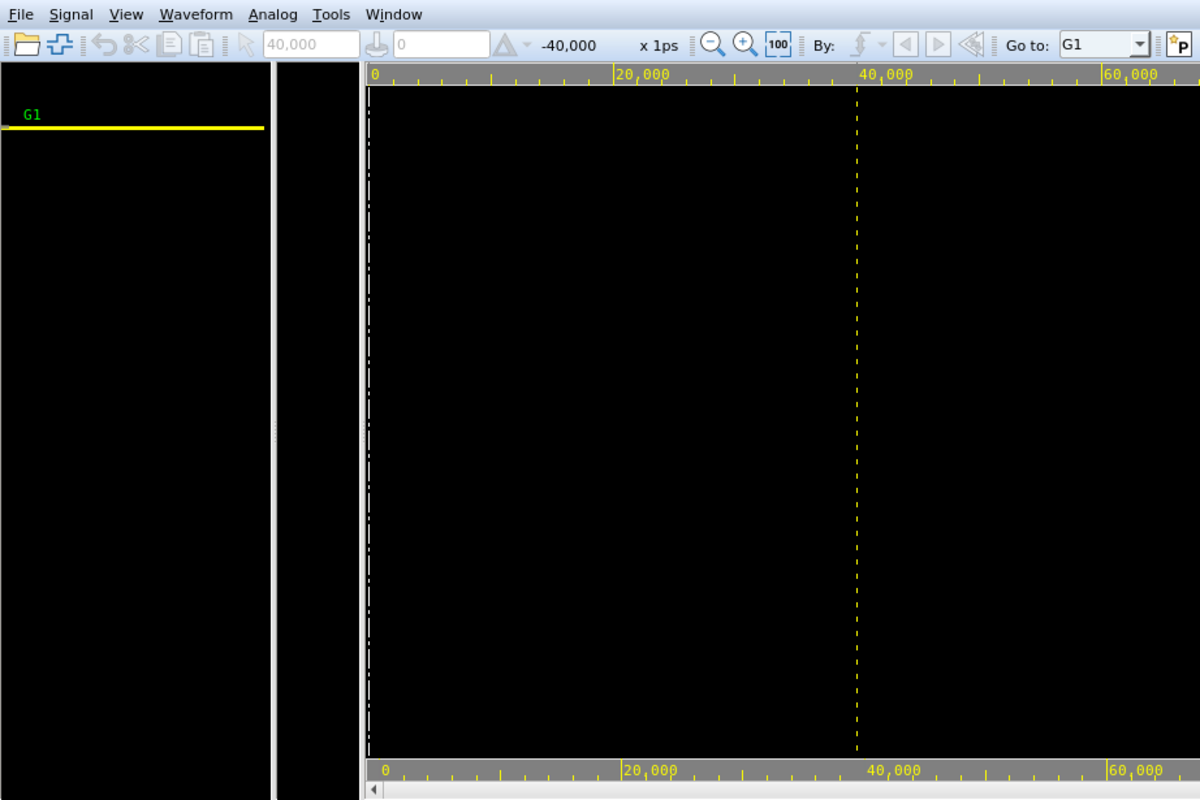
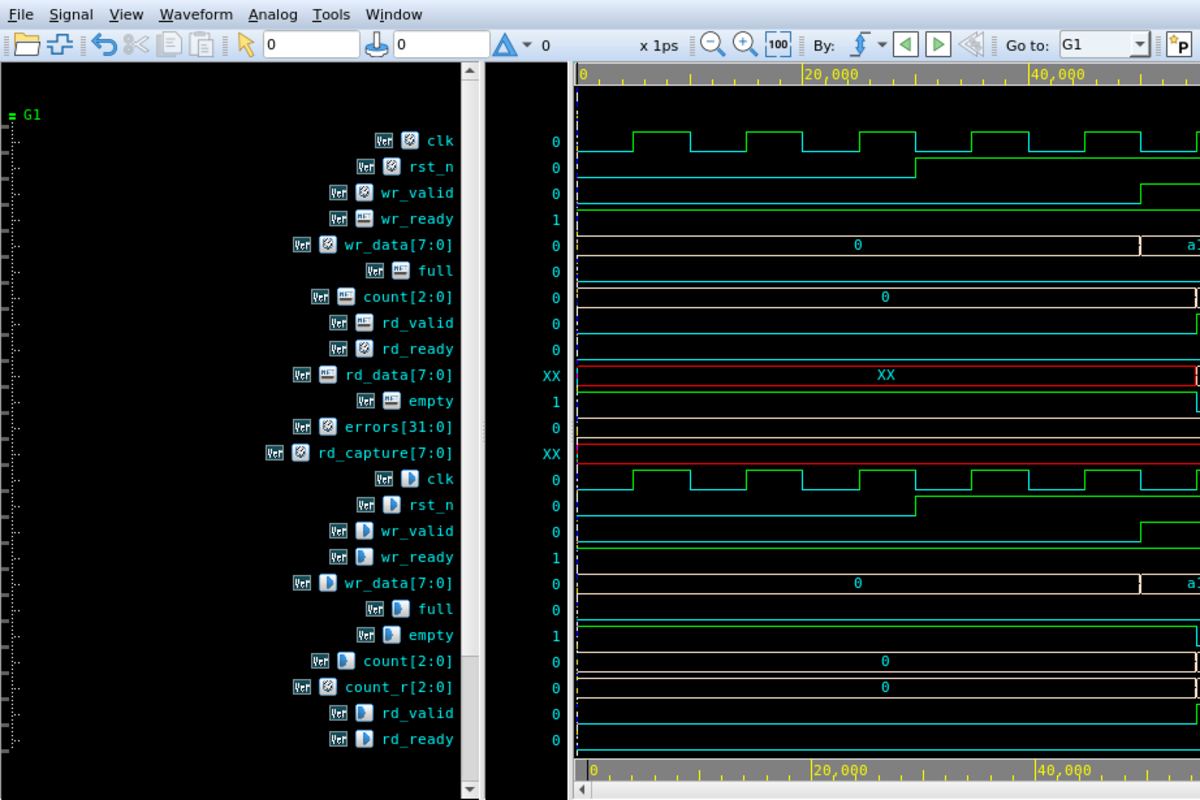
docs(readme): fix the demo captures
The previous tiles were captured from a window whose signals never got
added: wvAddSignal rejects a single braced list, and it returned 0, which
looked like success. Each tile was an empty waveform area.

Redone from a live session with the signals added one argument at a time:
29 signals in the list, scrolled to the top and deselected, a marker and a
highlight on top for the annotated shot, and both cones zoomed so the
schematic actually fills a 3:2 frame. Each image was inspected before
committing this time.

diff --git a/README.zh-CN.md b/README.zh-CN.md
@@ -55,8 +55,7 @@ verdimcp 里没有任何协议名。handshake 类原语只认 role（valid / rea
 | | |
 |---|---|
 | <img src="docs/evidence/demo/01-waveform.png" width="430"> | <img src="docs/evidence/demo/02-annotated.png" width="430"> |
-| <img src="docs/evidence/demo/03-handshake.png" width="430"> | <img src="docs/evidence/demo/04-driver-cone.png" width="430"> |
-| <img src="docs/evidence/demo/05-x-cone.png" width="430"> | |
+| <img src="docs/evidence/demo/03-driver-cone.png" width="430"> | <img src="docs/evidence/demo/04-x-cone.png" width="430"> |
 
 ## 工具
 

diff --git a/README.md b/README.md
@@ -66,8 +66,7 @@ last) and signal paths. Protocol rules are text in skills.
 | | |
 |---|---|
 | <img src="docs/evidence/demo/01-waveform.png" width="430"> | <img src="docs/evidence/demo/02-annotated.png" width="430"> |
-| <img src="docs/evidence/demo/03-handshake.png" width="430"> | <img src="docs/evidence/demo/04-driver-cone.png" width="430"> |
-| <img src="docs/evidence/demo/05-x-cone.png" width="430"> | |
+| <img src="docs/evidence/demo/03-driver-cone.png" width="430"> | <img src="docs/evidence/demo/04-x-cone.png" width="430"> |
 
 ## Tools
 
